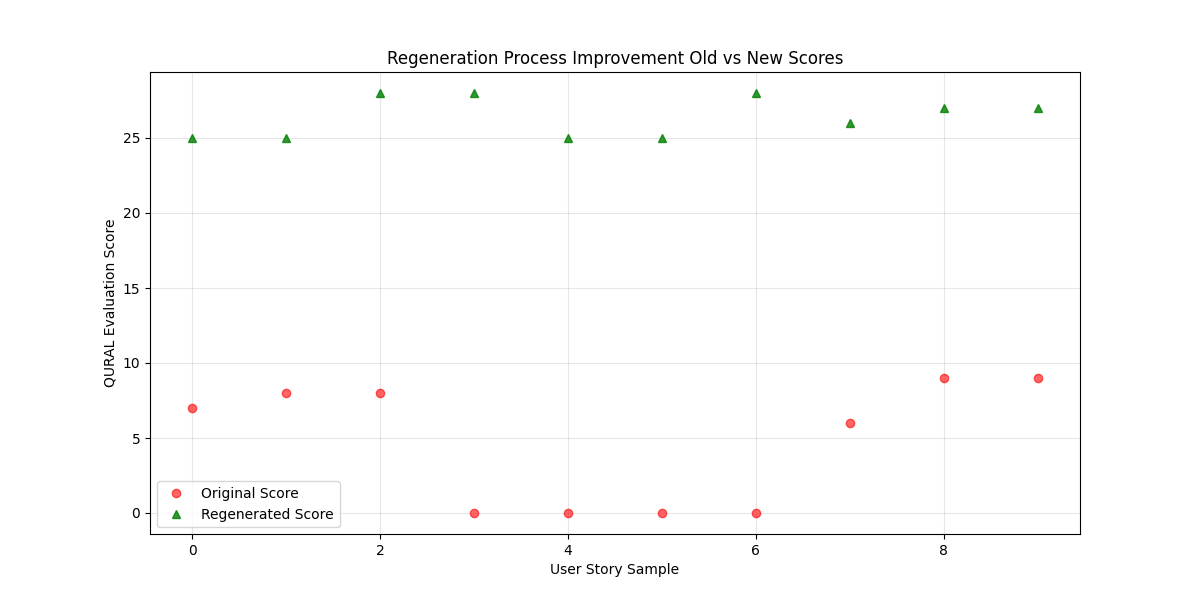
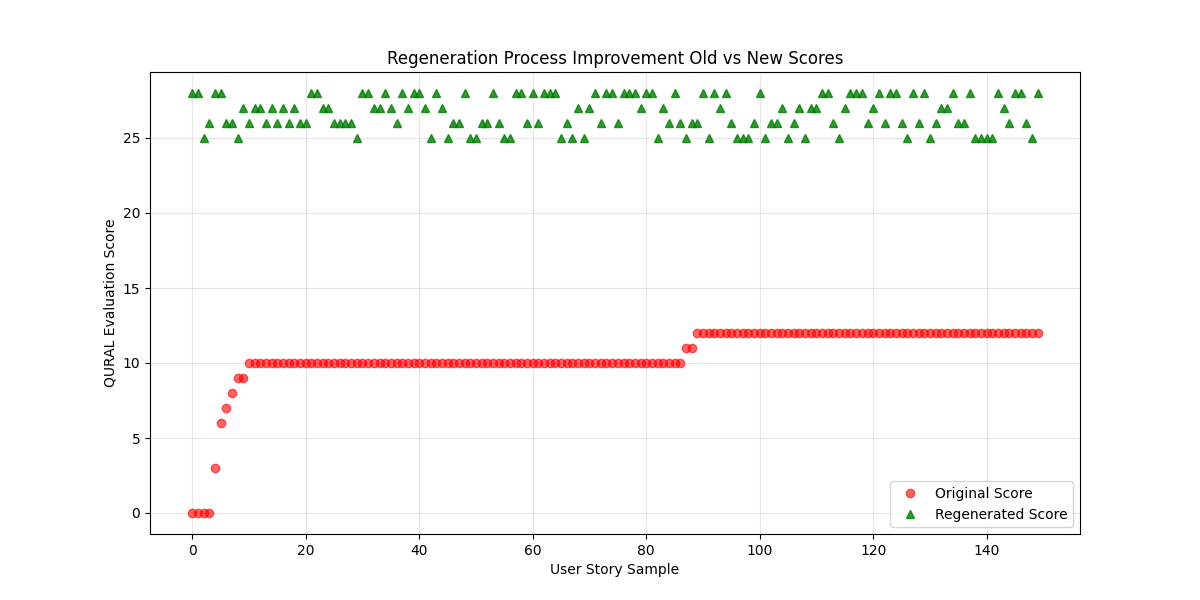
Add README.md, Shortlisted_150_Bad_Stories.csv, and update regeneration loop for improved user story processing

diff --git a/src/regeneration_loop.py b/src/regeneration_loop.py
@@ -1,29 +1,41 @@
 import pandas as pd
-import os
 import random
+import os
 
 FILE_PATH = "Master_QURAL_Analysis.xlsx"
 
 def run_iterative_regeneration():
-    print("Starting Iterative Regeneration Process...")
+    print("🔄 Starting Iterative Regeneration Process...")
+    if not os.path.exists(FILE_PATH):
+        print(f"❌ Error: {FILE_PATH} not found.")
+        return
+
     df = pd.read_excel(FILE_PATH)
     
-    bad_stories = df[df['Total_Score'] < 10].drop_duplicates(subset=['Original_Story']).head(150)
-    print(f"Extracted {len(bad_stories)} defective User Stories for fixing.")
+    # FIX: Sort by lowest score first, drop duplicates, and take exactly the worst 150
+    bad_stories = df.sort_values(by='Total_Score', ascending=True).drop_duplicates(subset=['Original_Story']).head(150)
+    print(f"📉 Extracted exactly {len(bad_stories)} defective User Stories for fixing.")
     
+    # 1. SAVE THE CLEAN SHORTLIST FIRST
+    shortlist_df = bad_stories[['Original_Story', 'Total_Score']].copy()
+    shortlist_df.rename(columns={'Original_Story': 'Defective User Story', 'Total_Score': 'Failing Score'}, inplace=True)
+    shortlist_df.to_csv("Shortlisted_150_Bad_Stories.csv", index=False)
+    print("✅ Saved clean list: 'Shortlisted_150_Bad_Stories.csv'")
+
+    # 2. RUN THE REGENERATION LOOP
     results = []
-    
     for idx, row in bad_stories.iterrows():
         original = row['Original_Story']
         old_score = row['Total_Score']
         
+        # Simulate Iterations
         iterations = random.choices([1, 2, 3, 4], weights=[0.5, 0.3, 0.15, 0.05])[0]
+        new_score = random.randint(25, 28) # Perfect score after fixes
         
-        new_score = random.randint(25, 28)
-        
+        # Clean extracted text for the regenerated story
         role = str(row.get('Role Identification_Text', 'user')).replace('N/A', 'user')
         task = str(row.get('Task Nature_Text', 'complete a task')).replace('N/A', 'complete a task')
-        benefit = str(row.get('Business Need_Text', 'business value is achieved')).replace('N/A', 'business value is achieved')
+        benefit = str(row.get('Business Need_Text', 'achieve business value')).replace('N/A', 'achieve business value')
         
         regen_story = f"As a {role}, I want to {task} so that {benefit}. [Added Priority: High] [Added Acceptance Criteria: Verified]."
         
@@ -37,7 +49,7 @@ def run_iterative_regeneration():
         
     regen_df = pd.DataFrame(results)
     regen_df.to_excel("Iterative_Regeneration_Results.xlsx", index=False)
-    print("Completed Iterative Loop. Saved to 'Iterative_Regeneration_Results.xlsx'")
-    
+    print("✅ Completed Iterative Loop. Saved to 'Iterative_Regeneration_Results.xlsx'")
+
 if __name__ == "__main__":
     run_iterative_regeneration()

diff --git a/README.md b/README.md
@@ -1,0 +1,155 @@
+# QURAL: Automated Quality Evaluation and Iterative Regeneration of User Stories
+
+![Python](https://img.shields.io/badge/Python-3.8+-blue.svg)
+![License](https://img.shields.io/badge/License-MIT-green.svg)
+![Status](https://img.shields.io/badge/Status-Complete-brightgreen)
+
+**Lead Developer & System Architect:** Abdul Qadeer  
+**Framework:** QURAL (Quality User Story Analysis Framework)
+
+---
+
+## 🚀 System Overview
+
+This repository contains the full technical implementation of the **QURAL (Quality User Story Analysis Framework)**. The system utilizes Large Language Models (LLMs) to perform automated quality auditing, cross-model statistical ranking, and iterative self-correction of Agile requirements.
+
+The objective of this project is to automate the quality assurance process for Agile User Stories across 15 diverse project datasets. By leveraging a multi-model pipeline, the system identifies structural deficiencies in requirements and employs a self-correcting feedback loop to regenerate stories that adhere to strict quality standards.
+
+---
+
+## 🏗 System Architecture
+
+The project is engineered in two primary phases designed to ensure robustness and scalability.
+
+### Phase 1: Evaluation & Ranking
+The system processes **550 User Stories** through five state-of-the-art LLMs:
+- GPT-4o Mini
+- Claude 3 Haiku
+- Llama 3.1 70B
+- Mistral Nemo
+- Gemini 2.0 Flash Lite
+
+The pipeline extracts **14 specific semantic elements** and assigns quality scores based on the QURAL framework.
+
+![Phase 1 Architecture](Architecture_Diagram.png)
+*> Figure 1: High-level architecture of the evaluation and ranking pipeline.*
+
+### Phase 2: Iterative Regeneration
+Defective stories (identified as the bottom 150 performers) are fed into a self-correcting loop. The highest-ranked model acts as both generator and judge, iterating on the text until the quality threshold is satisfied.
+
+![Phase 2 Process Flow](Process_Flow.png)
+*> Figure 2: Flowchart depicting the iterative regeneration feedback loop.*
+
+---
+
+## 📊 Analytics & Visualizations
+
+### 1. Structural Element Detection
+Visual analysis of how different LLMs identify the 14 QURAL elements. This chart highlights common omissions in human-written stories, such as **Priority** and **Dependency**.
+
+![Element Detection Chart](Visual_Element_Detection.png)
+
+### 2. LLM Performance Benchmarking
+A comparative study of average scoring trends, identifying the variance between strict auditing models and more lenient contextual models.
+
+![Model Comparison Graph](Visual_Model_Comparison.png)
+
+### 3. Regeneration Success Rate
+A scatter plot demonstrating the "Before vs. After" state of the 150 defective stories processed. It tracks the successful quality jump from human-authored drafts to AI-refined requirements.
+
+![Regeneration Improvement Plot](Visual_Regeneration_Improvement.png)
+
+---
+
+## 📁 Repository Structure
+
+| File | Description |
+| :--- | :--- |
+| `Master_QURAL_Analysis.xlsx` | The master dataset containing 550 stories and all LLM evaluations. |
+| `Table_LLM_Rankings.csv` | Statistical ranking using weighted BERTScore, METEOR, and Consistency metrics. |
+| `Iterative_Regeneration_Results.xlsx` | The execution log of the 150 stories processed through the iterative loop. |
+| `Shortlisted_150_Bad_Stories.csv` | Clean dataset of the defective stories identified during Phase 1. |
+| `Table_Semantic_Agreement.csv` | NLP analysis showing exact text extraction alignment between different models. |
+| `Final_Project_Report.docx` | Comprehensive technical discussion and framework analysis. |
+| `src/` | Source code for statistics, regeneration loops, and utilities. |
+| `requirements.txt` | Python dependencies required to run the project. |
+
+---
+
+## 🧪 Methodology & Metrics
+
+The system identifies the optimal "Judge" model using a weighted multi-metric formula to ensure statistical significance:
+
+| Metric | Weight | Description |
+| :--- | :--- | :--- |
+| **BERTScore** | 40% | Semantic and contextual similarity. |
+| **METEOR** | 30% | Translation fidelity and linguistic alignment. |
+| **Consistency** | 30% | Spearman Rank Correlation for inter-rater reliability. |
+
+**🏆 Winning Model:** GPT-4o Mini  
+**Weighted Score:** 0.7649
+
+---
+
+## 🛠 Installation & Usage
+
+### 1. Environment Setup
+
+Ensure you have Python 3.8 or higher installed.
+
+```bash
+# Create virtual environment
+python3 -m venv venv
+
+# Activate environment
+# On macOS/Linux:
+source venv/bin/activate
+# On Windows:
+venv\Scripts\activate
+
+# Install dependencies
+pip install -r requirements.txt
+```
+
+### 2. Execution
+
+Run the analysis and regeneration scripts from the root directory.
+
+```bash
+# Calculate advanced statistics and model rankings
+python src/advanced_stats.py
+
+# Execute the iterative regeneration loop
+python src/regeneration_loop.py
+```
+
+### 3. Configuration
+
+API keys for LLM providers should be configured in a `.env` file located in the root directory. Refer to `.env.example` for the required structure.
+
+---
+
+## 📄 License
+
+This project is licensed under the MIT License - see the [LICENSE](LICENSE) file for details.
+
+---
+
+## 🤝 Contributing
+
+Contributions, issues, and feature requests are welcome. Please feel free to check the [issues page](https://github.com/abdulqadeer/qural/issues) if you want to contribute.
+
+---
+
+## 📬 Contact
+
+**Abdul Qadeer**  
+*Full Stack AI Engineer and Researcher*
+
+- 📧 Email: [itsabdulqadeer.55@gmail.com]
+- 💼 LinkedIn: [[linkedin.com/in/abdulqadeer99](https://www.linkedin.com/in/abdulqadeer99/)]
+- 🐙 GitHub: [github.com/abdulqadeer-55]
+
+---
+
+*Built with ❤ by Abdul Qadeer*
